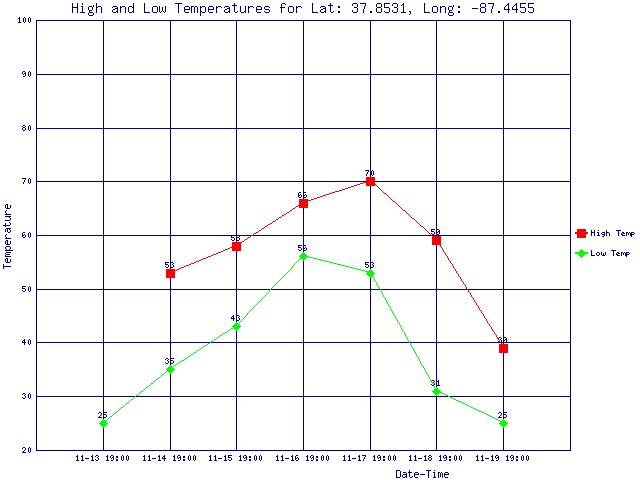
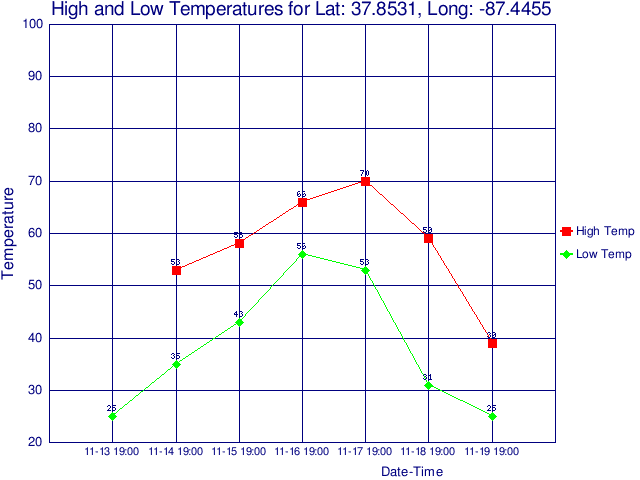
Move program to Linux server using Perl 5.10 with different version of GD. Now works with external fonts.  Graphs can be seen at http://banger.gimmel.net:41959/index.html. Next CGI.
--Tim

diff --git a/index.html b/index.html
@@ -13,7 +13,7 @@ body {
 
 <body>
 <p align="left">Next 7 Day Weather</p>
-<p><img src="HighTemp.png" width="640" height="480" longdesc="file:///Macintosh HD/Users/tim/perl/ndfdGetwx/HighTemp.png" />  </p>
+<p><img src="HighTemp.png" width="640" height="480" longdesc="HighTemp.png" />  </p>
 <p align="left">3 Hour Temperature, Dewpoint, Precent of Cloudcover and Humidity<br>
   
   <img src="3hrtmpdp.png" width="1000" height="600" longdesc="3hrtmpdp.png" /></p>
